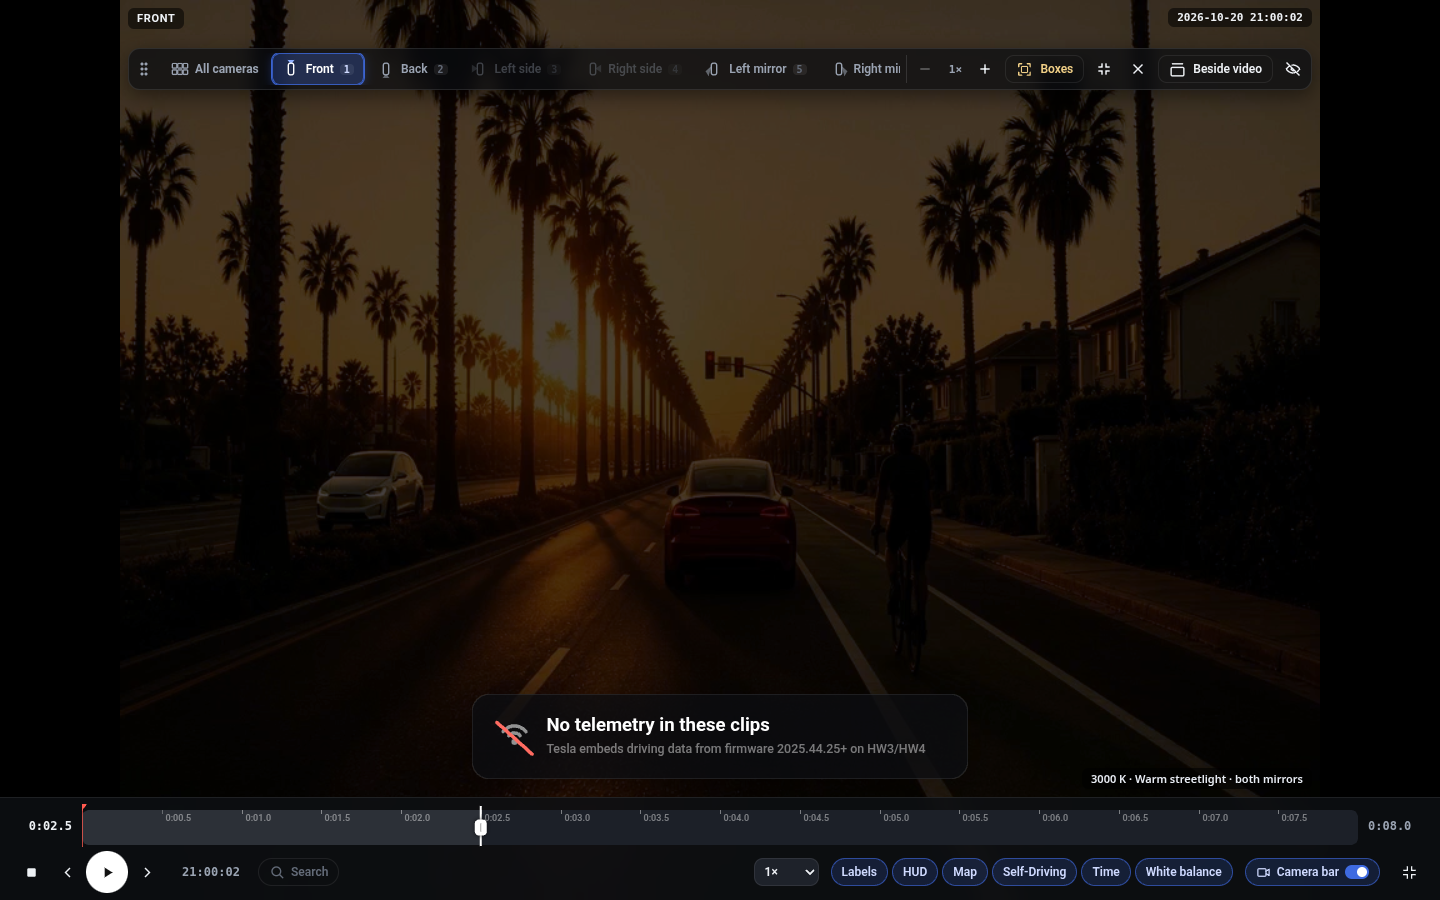
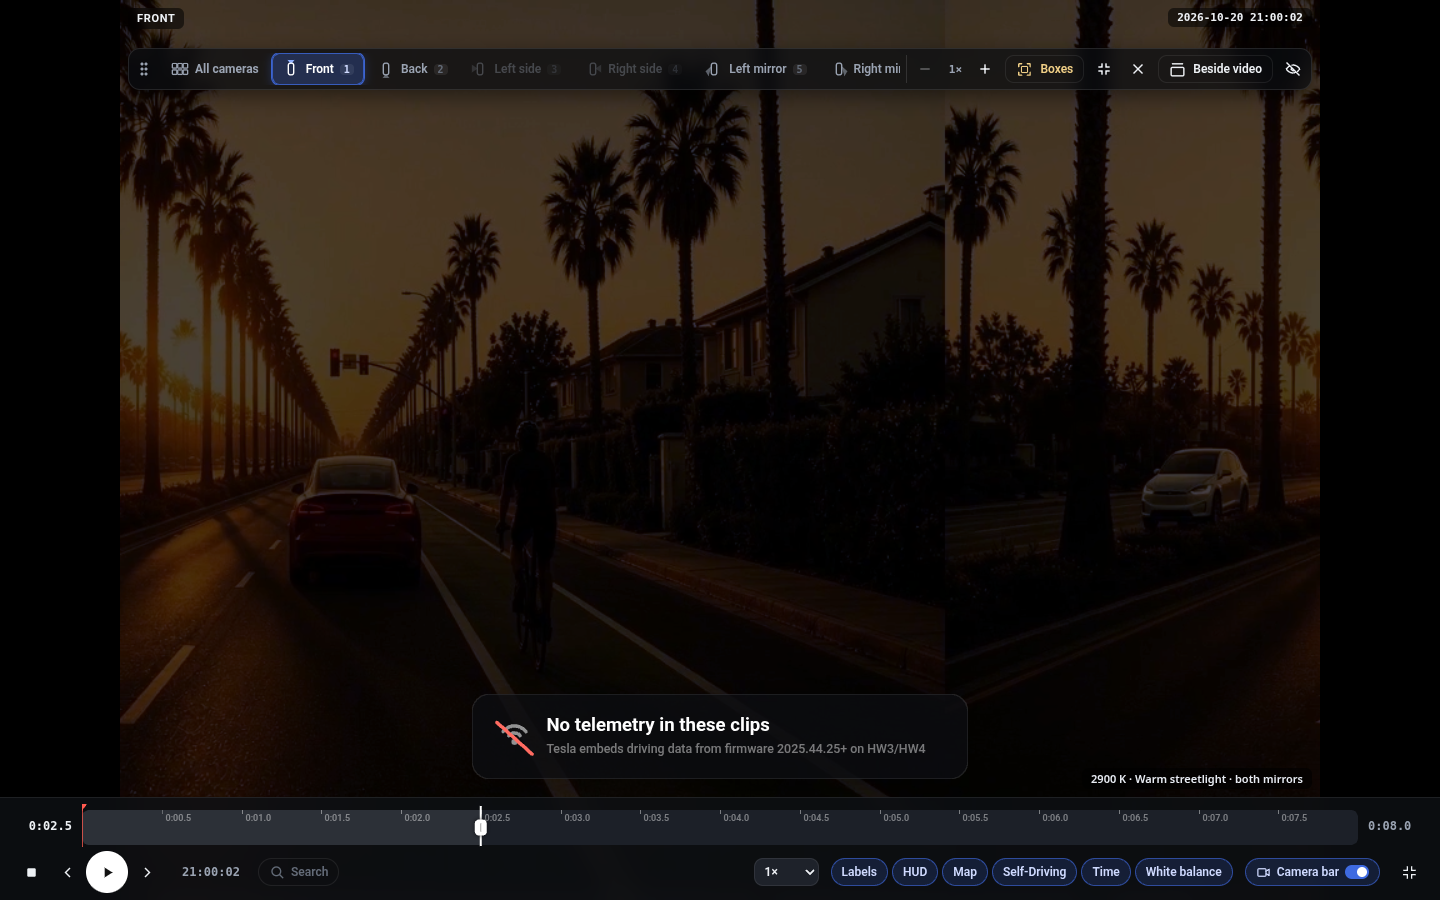
Docs + screenshots: white balance from the outer-edge car body (wb-real)

diff --git a/CHANGES-v2.md b/CHANGES-v2.md
@@ -239,3 +239,14 @@ Rollback point: tag `pre-white-balance` (= feature/all-in-one f667259).
 - Test: `test/white-balance.js` + `tools/make-wb-footage.py` (night scene under a 3000 K cast, white paint on the mirrors' inner edges, a red lamp reflection at 4.0–4.5 s; a second event without paint). Chromium + WebKit, 35 checks each, all pass: estimator units (clipped / red / green / specks, jump rejection, smoothing, CCT, gains); estimate 2957 K (Chromium) / 2910 K (WebKit) for 3000 K; readout; red flash: CCT range 2937–2957 / 2875–2910 K, 245–252 lamp pixels gated; on-screen paint moves 69–70 % toward neutral with brightness kept, in both render paths; front camera and 360 view corrected; full screen + 2× zoom 76–77 %; overlays pixel-identical with the videos hidden and a box over the video keeps its colours; detection input identical; export frames identical on vs off (pixel hash of all 30 composited frames; the files differ only in the same 6 header bytes that differ between any two exports); saved across reloads; tab hidden pauses; readout visible and not covered in grid, full screen and phone; no-paint event shows "Looking…" with no correction. Screenshots: `screenshots/white-balance-{before,after,fullscreen,360,phone,looking}-{chromium,webkit}.png`.
 - Regression: hud-front (62/62), box-toggle (13/13), burn-parity (20/20) in Chromium + WebKit; live-labels 21/21 (Puppeteer Chromium, desktop + iPhone portrait).
 - Limits: it trusts that the car is white (on a coloured car the "white point" is the paint colour: turn it off); one global correction for all cameras (the mirrors' light, not each camera's); the correction is not in the export (by design); real Safari / iOS were not available here: WebKit was tested with Playwright's WebKit build, and Safari uses the blend path, which needs no SVG filter on video; the tint layer also darkens the letterbox/placeholder area very slightly; strongly lit coloured scenes (e.g. a red-lit car wash) for more than ~3 s are taken as a new light.
+
+## White balance from the real mirror cameras (tag wb-real)
+Rollback point: tag `pre-wb-real` (= 56c58af). Back to the first version: tag `white-balance`.
+- On the real Model X repeaters the car body is at the OUTER edge (left repeater: far left of its image; right repeater: far right), a dim sliver at night, not a bright highlight. `js/wb.js` now samples that edge (`TDC.wb.C.SIDE`) in a strip 14 % wide (lower 88 %), downscaled to 32×64 cells.
+- Body mask: per cell a running mean / variance over the sampled frames (only while the scene moves); per row the body runs from the image edge to the first cell that is a static edge (temporal std ≤ 0.6 × the scene's and a dark valley / step ≥ 10 levels in the mean image); rows median-smoothed into one region touching the edge; confident with ≥ 8 frames, edges in ≥ 30 % of rows and a smooth curve. Until then a default wedge (1.2 % → 7 % of the width, from 18 % down). The learned shape is saved per camera (`tdc.wb.mask.v1`) and used at once after a reload.
+- White point: mean of the 60–95th luminance percentile of the body cells; clipped (≥ 250) cells skipped; dark cells below max(6, 0.2 × scene median) skipped; "paint seen" needs ≥ 12 cells at ≥ max(10, 0.3 × scene median), so dim night paint counts. Hue gate, log-chroma trimming, chroma-jump rejection (14 samples ≈ 3 s) and EMA 0.25 kept. Gains clamped to 0.65–1.7.
+- Settings > White balance (`tdc.wb.cfg.v1`): Strength (default 70 %), Strip width, Car body edge per mirror (auto / left / right edge; changing it relearns), Show sample area (dashed strip + magenta body cells + "Body found · left edge" / "Default sliver").
+- Tested on the user's real night clip (kept out of the repo): learned body on both mirrors (left: up to 6.1 % of the width, right: up to 4.8 %), estimate 3300–3500 K, "Warm streetlight · both mirrors", in Chromium and WebKit.
+- Test: `test/white-balance.js` + `tools/make-wb-footage.py` now put a dim, textured body sliver on the OUTER edges with a moving scene; 44 checks in Chromium and WebKit, all pass (mask learned on both mirrors, default sliver before, side override, strength 30 / 70 / 100 %, remembered shape, no-body, parked scene, plus all the earlier checks: export identical, overlays unchanged, red flash ignored, persistence, full screen + zoom, 360).
+- Limits: the body has to be learned while driving (parked footage keeps the default sliver, which is usually right); the body shape assumes the factory repeater framing; on a coloured car turn it off; a gain clamp means very strong sodium casts are only partly corrected even at 100 %.
+

diff --git a/README.md b/README.md
@@ -190,8 +190,9 @@ Off by default; the on-device plate reader and detector above always come first.
 ## Live white balance (viewer only)
 Night clips under streetlights often look orange. Tap **White balance** in the bar under the video (next to **HUD** and **Map**) to correct the colours live, in the viewer only.
 
-- **How it finds the light:** your car is white, and the two mirror cameras (left and right repeaters) always see a strip of that white paint along their inner edge. The app reads the brightest, unclipped pixels of that paint (the glossy highlight) a few times a second, follows them over several frames, and takes their colour as the colour of the light.
-- **What it does:** it moves all the camera videos about **70 %** of the way toward neutral, keeping their brightness. HUD, map, labels, detection boxes, the gold box, search chips, the Self-Driving badge and the time keep their own colours.
+- **How it finds the light:** your car is white, and each mirror camera (left and right repeater) sees a thin sliver of the car body along its **outer** edge: the far left of the left repeater's image and the far right of the right repeater's, wider toward the bottom. At night that paint is a dim grey/beige sliver lit by the streetlight; its colour is the colour of the light. The app finds the body by itself: while you drive the world moves past but the body and its edge stay still, so after a few seconds it learns the body's shape (and remembers it per camera). Until then it uses a default wedge-shaped sliver. Inside the body it takes the 60–95th percentile of brightness (no bright highlight needed; clipped and very dark pixels are skipped, and "paint seen" adapts to how bright the scene is) a few times a second and smooths it over several samples.
+- **Settings > White balance:** *Strength* (default 70 %), *Strip width* (how far in from the edge to look for the body), *Car body edge* per mirror camera (auto / left edge / right edge, for unusual mounts or mirrored footage) and *Show sample area*, which outlines the strip and paints the body pixels being sampled in magenta on the video, with "Body found · left edge" or "Default sliver" on the tile.
+- **What it does:** it moves all the camera videos about **70 %** of the way toward neutral (gains are limited, since the paint isn't perfectly neutral, so it never over-corrects), keeping their brightness. HUD, map, labels, detection boxes, the gold box, search chips, the Self-Driving badge and the time keep their own colours.
 - **Readout** (bottom right of the video), e.g. `3200 K · Warm streetlight · both mirrors` (or *left mirror* / *right mirror*). The light is described as *Sodium streetlight* (below about 2300 K or strongly orange), *Warm streetlight*, *Neutral light*, *Cool light* or *Daylight*. When it can't see the paint: *Looking for your white paint in the mirror cameras* (no correction is applied then).
 - **Lamps:** a sudden red or green reflection (brake light, traffic light) is ignored: strongly red or green pixels are skipped, and a sudden colour jump on one mirror is rejected unless it lasts about 3 seconds (a real change of light).
 - **Export is not changed.** Exports, detection, search and the 360 export always use the original frames. The setting is remembered. It works in the grid, the full-screen single camera (with zoom) and the 360 view.
@@ -199,6 +200,7 @@ Night clips under streetlights often look orange. Tap **White balance** in the b
 
 ![White balance off (top) and on (bottom): synthetic night footage under a ~3000 K streetlight](screenshots/white-balance-before-chromium.png)
 ![](screenshots/white-balance-after-chromium.png)
+![Show sample area: the learned body sliver on each mirror camera](screenshots/white-balance-mask-chromium.png)
 
 ## 360 view (beta prototype)
 Tap **360** in the camera bar. The six cameras are stitched on your device's GPU (WebGL2, or WebGL1 on older browsers) into one view around the car:
